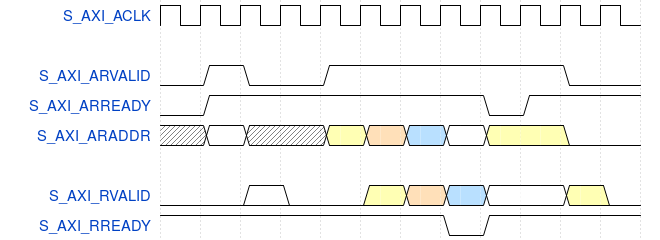
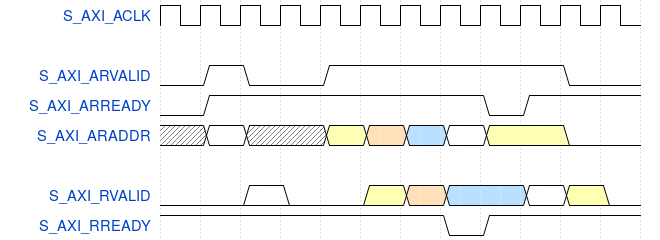
Fixed the broken AXI-lite figure 12

Changed region(s): [[0.7273, 0.7583, 0.8182, 0.875]]

diff --git a/blog/2019/01/12/demoaxilite.html b/blog/2019/01/12/demoaxilite.html
@@ -188,7 +188,8 @@ master) can perform its functions.</p>
     <p>Several individuals have posted both on
 <a href="https://forums.xilinx.com">Xilinx’s forum</a> and
 <a href="https://forum.digilentinc.com">Digilent’s forum</a>
-about the MicroBlaze computer being horrendously slow
+about the MicroBlaze computer being
+<a href="/zipcpu/2019/02/09/cpu-blinky.html">horrendously slow</a>
 [<a href="https://forum.digilentinc.com/topic/4930-arty-microblaze-speed-question">1</a>]
 [<a href="https://forums.xilinx.com/t5/Evaulation-Boards/AXI_GPIO-too-slow/td-p/725431">2</a>]
 [<a href="https://forums.xilinx.com/t5/Embedded-Processor-System-Design/Why-microblaze-loop-speed-is-40-times-slower-than-I-expected/td-p/111342">3</a>]
@@ -202,7 +203,9 @@ While I’ll admit this isn’t a great measure of
 <a href="https://en.wikipedia.org/wiki/Central_processing_unit">CPU</a>
 performance, it is a somewhat decent measure of peripheral
 <a href="https://en.wikipedia.org/wiki/Bus_(computing)">bus</a>
-performance.</p>
+performance.
+(Incidentally, the ZipCPU can toggle a GPIO peripheral about 12x
+faster](/zipcpu/2019/02/09/cpu-blinky.html))</p>
 
     <p>There is no reason why a basic
 <a href="https://en.wikipedia.org/wiki/General-purpose_input/output">GPIO</a> driver,
@@ -226,7 +229,7 @@ that much that a peripheral designer can do to affect the
 <a href="https://en.wikipedia.org/wiki/Latency_(engineering)">latency</a>
 associated with accessing his component.</p>
 
-    <p>What he can do, however, is make certain that he doesn’t increase that
+    <p>What he can do, however, is make certain that he doesn’t <em>increase</em> that
 <a href="https://en.wikipedia.org/wiki/Latency_(engineering)">latency</a> by how he
 processes the request.</p>
 
@@ -269,12 +272,11 @@ how to make this happen.</p>
 
 <p>Therefore let’s examine how to make an <a href="https://github.com/ZipCPU/wb2axip/blob/master/rtl/demoaxi.v">AXI-lite
 slave</a>.  I’ll
-focus on a <a href="https://en.wikipedia.org/wiki/Random-access_memory">RAM</a>
-based design.  Indeed, if we do this write, then our design should be able
-to map into block <a href="https://en.wikipedia.org/wiki/Random-access_memory">RAM</a>.<br />
-(My first draft didn’t meet this criteria.)  Either way the design approach
-will be quite appropriate for a typical
-<a href="https://en.wikipedia.org/wiki/Hardware_register">register-based</a>
+focus on a <a href="https://en.wikipedia.org/wiki/Random-access_memory">RAM</a> based
+design.  Indeed, if we do this right, then our design should be able to map into
+block <a href="https://en.wikipedia.org/wiki/Random-access_memory">RAM</a>.  (My first
+draft didn’t meet this criteria.)  Either way the design approach will be quite
+appropriate for a typical <a href="https://en.wikipedia.org/wiki/Hardware_register">register-based</a>
 slave peripheral.</p>
 
 <p>Finally, before beginning to look at how we’d do this, let’s just note that
@@ -406,8 +408,8 @@ Such a transaction will need to be
 within our core.</p>
 
 <p>We <a href="/blog/2017/08/14/strategies-for-pipelining.html">studied how to do this back in 2017, under the name of a “buffered
-handshake.”</a>.
-<a href="http://fpgacpu.ca/fpga/skid_buffer.html">Eric LaForest has recently posted a similar description, only they
+handshake.”</a>
+<a href="http://fpgacpu.ca/fpga/skid_buffer.html">Eric LaForest has recently posted a similar description, only he
 called it a “Skid Buffer”</a>.
 However, I have yet to present code that will perform this handshake here on
 this blog.  Until now.</p>
@@ -631,10 +633,11 @@ In that case, you’d want to add a bit more logic, perhaps even the following:<
 
 <figure class="highlight"><pre><code class="language-verilog" data-lang="verilog">	<span class="k">always</span> <span class="o">@</span><span class="p">(</span><span class="kt">posedge</span> <span class="n">S_AXI_ACLK</span><span class="p">)</span>
 	<span class="k">if</span> <span class="p">(((</span><span class="o">!</span><span class="n">S_AXI_RVALID</span><span class="p">)</span><span class="o">||</span><span class="p">(</span><span class="n">S_AXI_RREADY</span><span class="p">))</span>
-		<span class="o">&amp;&amp;</span><span class="p">((</span><span class="o">!</span><span class="n">axi_awready</span><span class="p">)</span><span class="o">||</span><span class="p">(</span><span class="n">S_AXI_AWVALID</span><span class="p">)))</span>
+		<span class="o">&amp;&amp;</span><span class="p">(</span><span class="o">!</span><span class="n">OPT_READ_SIDEEFFECTS</span> <span class="o">||</span> <span class="p">(</span><span class="o">!</span><span class="n">axi_arready</span> <span class="o">||</span> <span class="n">S_AXI_ARVALID</span><span class="p">)))</span>
 		<span class="c1">// If 1. the outgoing channel is not stalled (above)
-</span>		<span class="c1">// and 2. there's an outstanding or incoming read request,
-</span>		<span class="c1">// then perform the read
+</span>		<span class="c1">// and 2. there's an outstanding (!axi_arready) or
+</span>		<span class="c1">// incoming (S_AXI_ARVALID) read request, then
+</span>		<span class="c1">// perform the read
 </span>		<span class="n">axi_rdata</span> <span class="o">&lt;=</span> <span class="n">slv_mem</span><span class="p">[</span><span class="n">rd_addr</span><span class="p">[</span><span class="n">AW</span><span class="o">+</span><span class="n">ADDR_LSB</span><span class="o">-</span><span class="mi">1</span><span class="o">:</span><span class="n">ADDR_LSB</span><span class="p">]]</span><span class="o">;</span></code></pre></figure>
 
 <p>That sets our response data.  Now for the upstream <code class="highlighter-rouge">S_AXI_ARREADY</code> which, as
@@ -708,7 +711,7 @@ negatively whether or not buffer is full.</p>
 <p>That’s the easy part.</p>
 
 <p>If only the write channel were as easy as the read channel.  Indeed, it would
-be, if we were able to guarantee that the write address and write data would
+be if we were able to guarantee that the write address and write data would
 both arrive at our slave at the same time.  Sadly, this is not the case.  The
 <a href="/formal/2018/12/28/axilite.html">two channels, write address and write data, may be separated by up to two
 clocks</a>.  We’ll need to
@@ -763,7 +766,7 @@ leaves us with two conditions to check, as shown in Fig. 13 below.</p>
 
 <table align="center" style="float: none"><caption>Fig 13. Stall conditions if the response channel is already stalled</caption><tr><td><img src="/img/demoaxil-wdbl-1.svg" alt="" width="720" /></td></tr></table>
 
-<p>If the output channel is stalled and our buffer already full, then we need
+<p>If the output channel is stalled and our buffer is already full, then we need
 to remain stalled.  This is the case shown on the right above.  Likewise if
 the output channel is stalled and we just accepted a value, then we need to
 lower the ready line of <code class="highlighter-rouge">S_AXI_AWREADY</code>.  This is shown on the left above.
@@ -929,7 +932,7 @@ uses a <code class="highlighter-rouge">for</code> loop to walk through the vario
 bytes.  While this works, I find it harder to read than the code above.
 Further, since <a href="https://www.xilinx.com/support/documentation/ip_documentation/ug761_axi_reference_guide.pdf">Xilinx requires</a>
 that the <a href="/formal/2018/12/28/axilite.html">AXI-lite bus</a>
-be only ever 32-bits wide, the code above should be widely applicable.</p>
+be only ever 32-bits wide, the code above should still be widely applicable.</p>
 
 <p>That leaves only one step left: adjusting <code class="highlighter-rouge">axi_bvalid</code> to acknowledge
 that a write has taken place.  The code below almost follows our three
@@ -1224,12 +1227,12 @@ to <a href="/zipcpu/2017/11/07/wb-formal.html">WB</a>
 bridge as well as the properties necessary to verify it.  That
 project and post, however, will need to wait for another day.</p>
 
-<p>Another possibility future post would be to discuss how easy it can be to build
+<p>Another potential future post would be to discuss how easy it can be to build
 the complex cover statements used to demonstrate
 <a href="https://github.com/ZipCPU/wb2axip/blob/master/rtl/demoaxi.v">this core</a>
-above.  This approach offers an alternative to the <code class="highlighter-rouge">sequence</code>s that SVA
-supports but which the free version of
-<a href="http://www.clifford.at/yosys">Yosys</a>
+above.  Such an approach would <a href="/formal/2019/02/21/txuart.html">offer an alternative to the <code class="highlighter-rouge">sequence</code>s that
+SVA supports</a> but which the
+free version of <a href="http://www.clifford.at/yosys">Yosys</a>
 does not.  That will also need to wait for another day as well.</p>
 
   </div>

diff --git a/blog.html b/blog.html
@@ -81,7 +81,7 @@
         <span class="post-meta">Feb 21, 2019</span>
 
         <h2>
-          <a class="post-link" href="/formal/2019/02/21/txuart.html">Using Sequence Properties to Verify a A Serial Port Transmitter</a>
+          <a class="post-link" href="/formal/2019/02/21/txuart.html">Using Sequence Properties to Verify a Serial Port Transmitter</a>
         </h2>
 	
 	<DIV ID=<post-meta"><P>Formally Verifying a serial port makes a great example of both the good and bad about SystemVerilog sequences, and how you can still work around the bad with SymbiYosys</P></DIV>

diff --git a/formal/formal.html b/formal/formal.html
@@ -82,7 +82,7 @@
         <span class="post-meta">Feb 21, 2019</span>
 
         <h2>
-          <a class="post-link" href="/formal/2019/02/21/txuart.html">Using Sequence Properties to Verify a A Serial Port Transmitter</a>
+          <a class="post-link" href="/formal/2019/02/21/txuart.html">Using Sequence Properties to Verify a Serial Port Transmitter</a>
         </h2>
 	
 	<DIV ID=<post-meta"><P>Formally Verifying a serial port makes a great example of both the good and bad about SystemVerilog sequences, and how you can still work around the bad with SymbiYosys</P></DIV>
